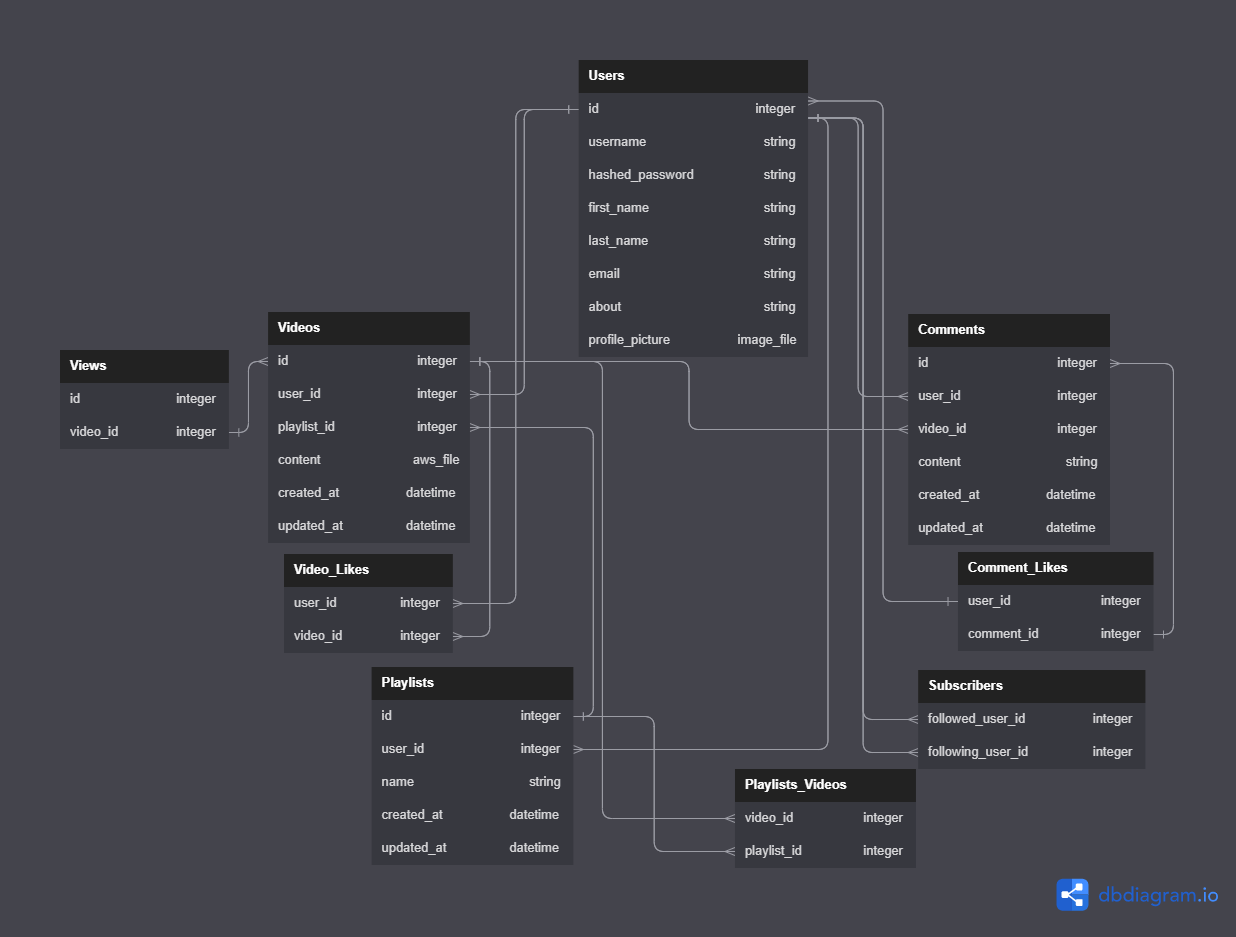
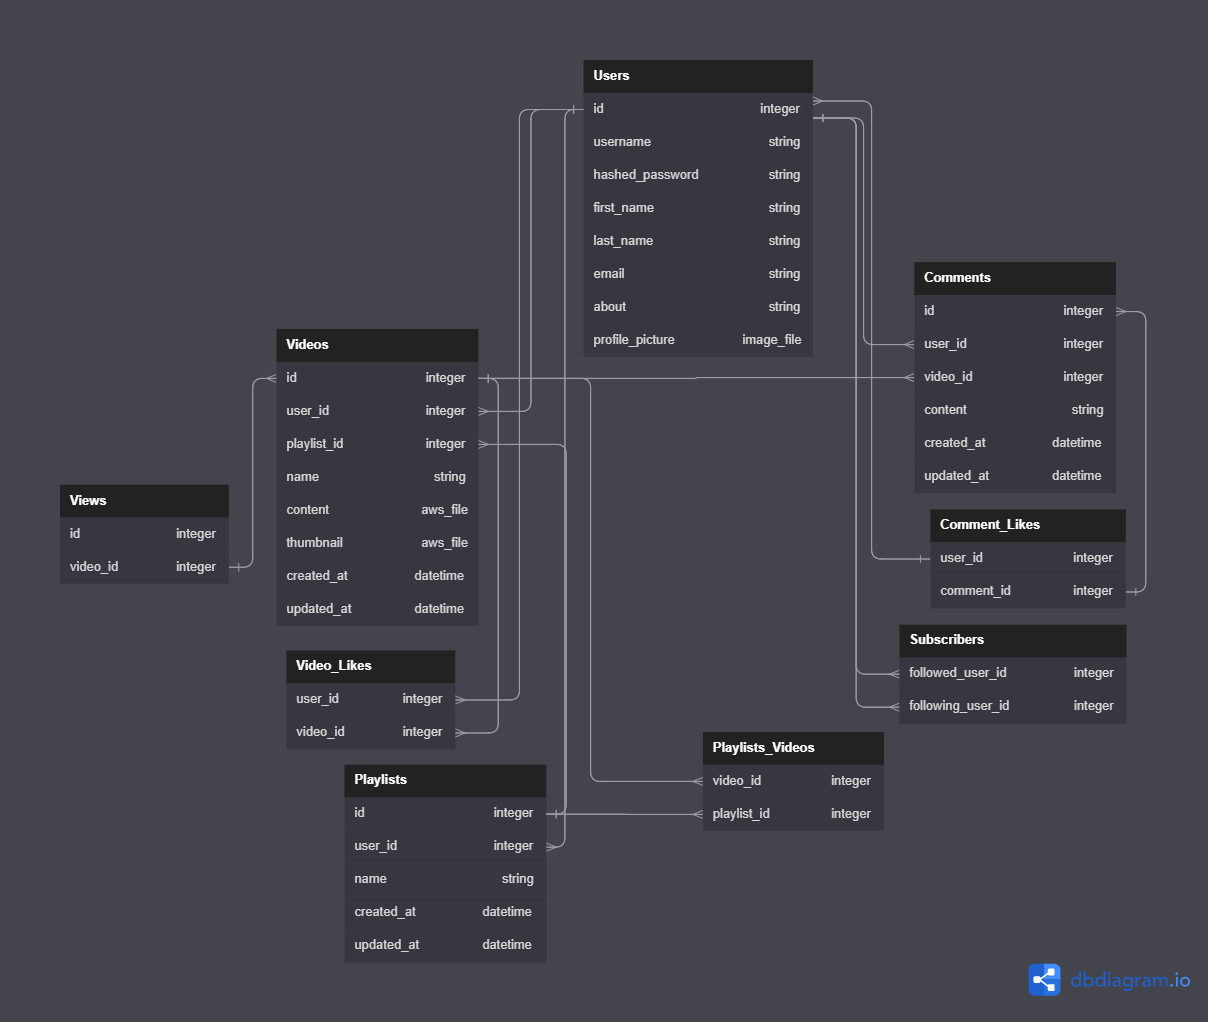
Added video model and video flask form

Changed region(s): [[0.0306, 0.0309, 0.9495, 0.9285], [0.8576, 0.9285, 0.9801, 0.9904], [0.5207, 0.7737, 0.5513, 0.8047]]

diff --git a/app/models/video.py b/app/models/video.py
@@ -1,0 +1,32 @@
+from .db import db, environment, SCHEMA, add_prefix_for_prod
+from sqlalchemy.schema import ForeignKey, func
+
+class Video(db.Model):
+    __tablename__ = 'videos'
+
+    if environment == "production":
+        __table_args__ = {'schema': SCHEMA}
+
+    id = db.Column(db.Integer, primary_key=True)
+    user_id = db.Column(db.Integer, ForeignKey(add_prefix_for_prod('users.id')), nullable=False)
+    # playlist_id = db.Column(db.Integer, ForeignKey(add_prefix_for_prod('playlists.id')), nullable=True) ## Placeholder until playlists implemented
+    name = db.Column(db.String(255), nullable=False, unique=True)
+    content = db.Column(db.String, nullable=False)
+    thumbnail = db.Column(db.String, nullable=False) ## Will be required for now, can possibly select frames from the video and make it automatic
+    created_at = db.Column(db.DateTime, server_default=func.now(), nullable=False)
+    updated_at = db.Column(db.DateTime, server_default=func.now(), onupdate=func.now(), nullable=False)
+
+    user = db.relationship('User', back_populates='videos')
+
+
+    def to_dict(self):
+        return {
+          'id': self.id,
+          'userId': self.user_id,
+        #   'playlistId': self.playlist_id, ## Placeholder until playlists implemented
+          'name': self.name,
+          'content': self.content,
+          'thumbnail': self.thumbnail,
+          'createdAt': self.created_at,
+          'updatedAt': self.updated_at
+      }

diff --git a/app/forms/video_form.py b/app/forms/video_form.py
@@ -1,0 +1,13 @@
+from flask_wtf import FlaskForm
+from flask_wtf.file import FileField, FileAllowed, FileRequired
+from wtforms import StringField, FileField, SelectField, IntegerField
+from wtforms.validators import DataRequired, Email, ValidationError
+from app.models import Video
+from app.api.aws_video_helpers import ALLOWED_VIDEO_EXTENSIONS
+from app.api.aws_image_helpers import ALLOWED_IMAGE_EXTENSIONS
+
+class NewVideo(FlaskForm):
+    # playlist_id = IntegerField("playlist_id", validate_choice=False) ## Placeholder until playlists implemented
+    name = StringField('song_name', validators=[DataRequired()])
+    content = FileField("content", validators=[FileRequired(), FileAllowed(list(ALLOWED_VIDEO_EXTENSIONS))])
+    thumbnail = FileField("thumbnail", validators=[FileRequired(), FileAllowed(list(ALLOWED_IMAGE_EXTENSIONS))])

diff --git a/app/forms/signup_form.py b/app/forms/signup_form.py
@@ -30,11 +30,10 @@ def valid_email(form, field):
 
 
 class SignUpForm(FlaskForm):
-    username = StringField(
-        'username', validators=[DataRequired(), username_exists])
+    username = StringField('username', validators=[DataRequired(), username_exists])
     password = StringField('password', validators=[DataRequired()])
     first_name = StringField('first_name', validators=[DataRequired()])
     last_name = StringField('last_name', validators=[DataRequired()])
     email = StringField('email', validators=[DataRequired(), user_exists, valid_email])
     about = StringField('about')
-    profile_picture = FileField("profile_picture", validators=[FileAllowed(list(ALLOWED_SONG_EXTENSIONS))])
+    profile_picture = FileField("profile_picture", validators=[FileAllowed(list(ALLOWED_IMAGE_EXTENSIONS))])

diff --git a/app/models/user.py b/app/models/user.py
@@ -18,6 +18,8 @@ class User(db.Model, UserMixin):
     about = db.Column(db.String(500))
     profile_picture = db.Column(db.String)
 
+    videos = db.relationship('Video', back_populates='user', cascade='all, delete-orphan')
+
     @property
     def password(self):
         return self.hashed_password
